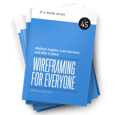
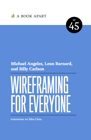
Adjusting book image

diff --git a/src/css/styles.css b/src/css/styles.css
@@ -27,7 +27,7 @@ div.sidebar .mepic {
 	margin:10px auto;
 	display: none;
 	float: right;
-	width: 115px;
+	/* width: 115px; */
 }
 
 @media (min-width: 40em) {

diff --git a/site/content/_index.md b/site/content/_index.md
@@ -4,8 +4,8 @@ title: "Leon Barnard has a website"
 
 I'm **Leon**, a dad, husband, mentor, and User Experience specialist. I work at [Balsamiq](http://balsamiq.com/), maker of the best little wireframing tool around. I help people and technology get along better.
 
-**New!** I wrote a book called *Wireframing for Everyone*, coming soon from [A Book Apart](https://abookapart.com).<br>
-**[Pre-order it now](https://balsamiq.com/learn/wireframing-book/)**
+**New!** I wrote a book called [*Wireframing for Everyone*](https://balsamiq.com/learn/wireframing-book/) —
+[**Pre-order it now**](https://abookapart.com/products/wireframing-for-everyone)
 
 ---
 
